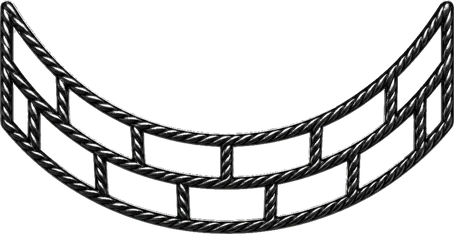
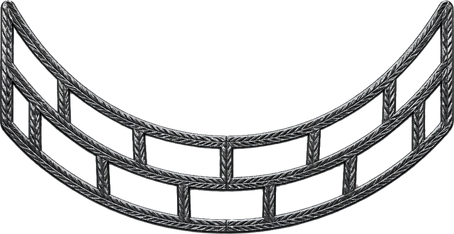
Black panel frame: variant C matching the silver/gold design

Changed region(s): [[0.0, 0.0, 1.0, 1.0]]

diff --git a/zodiac-duo.js b/zodiac-duo.js
@@ -24,7 +24,7 @@
 
   var SCRIPT_SRC = (document.currentScript && document.currentScript.src) || "";
   var ASSETS = CFG.assets || SCRIPT_SRC.replace(/[^/]*$/, "") + "assets";
-  var AV = "?v=m22"; // версия ассетов (медальоны v2) — сброс кэша слоёв и свотчей
+  var AV = "?v=m23"; // версия ассетов (медальоны v2) — сброс кэша слоёв и свотчей
   var M = window.ZD_MANIFEST;
   // Медальон в конструкторе чуть меньше слоя PSD (масштаб от центра); общий манифест не трогаем — лендинг видит исходный размер
   var MEDAL_SCALE = 0.9;

diff --git a/index.html b/index.html
@@ -249,7 +249,7 @@
     };
   </script>
   <script src="assets/manifest.js?v=20261011r"></script>
-  <script src="zodiac-duo.js?v=20261015bk3"></script>
+  <script src="zodiac-duo.js?v=20261015bk4"></script>
   <script src="landing/landing.js?v=20"></script>
   <script type="importmap">
     { "imports": {

diff --git a/demo.html b/demo.html
@@ -40,6 +40,6 @@
     };
   </script>
   <script src="assets/manifest.js?v=20261011r"></script>
-  <script src="zodiac-duo.js?v=20261015bk3"></script>
+  <script src="zodiac-duo.js?v=20261015bk4"></script>
 </body>
 </html>
